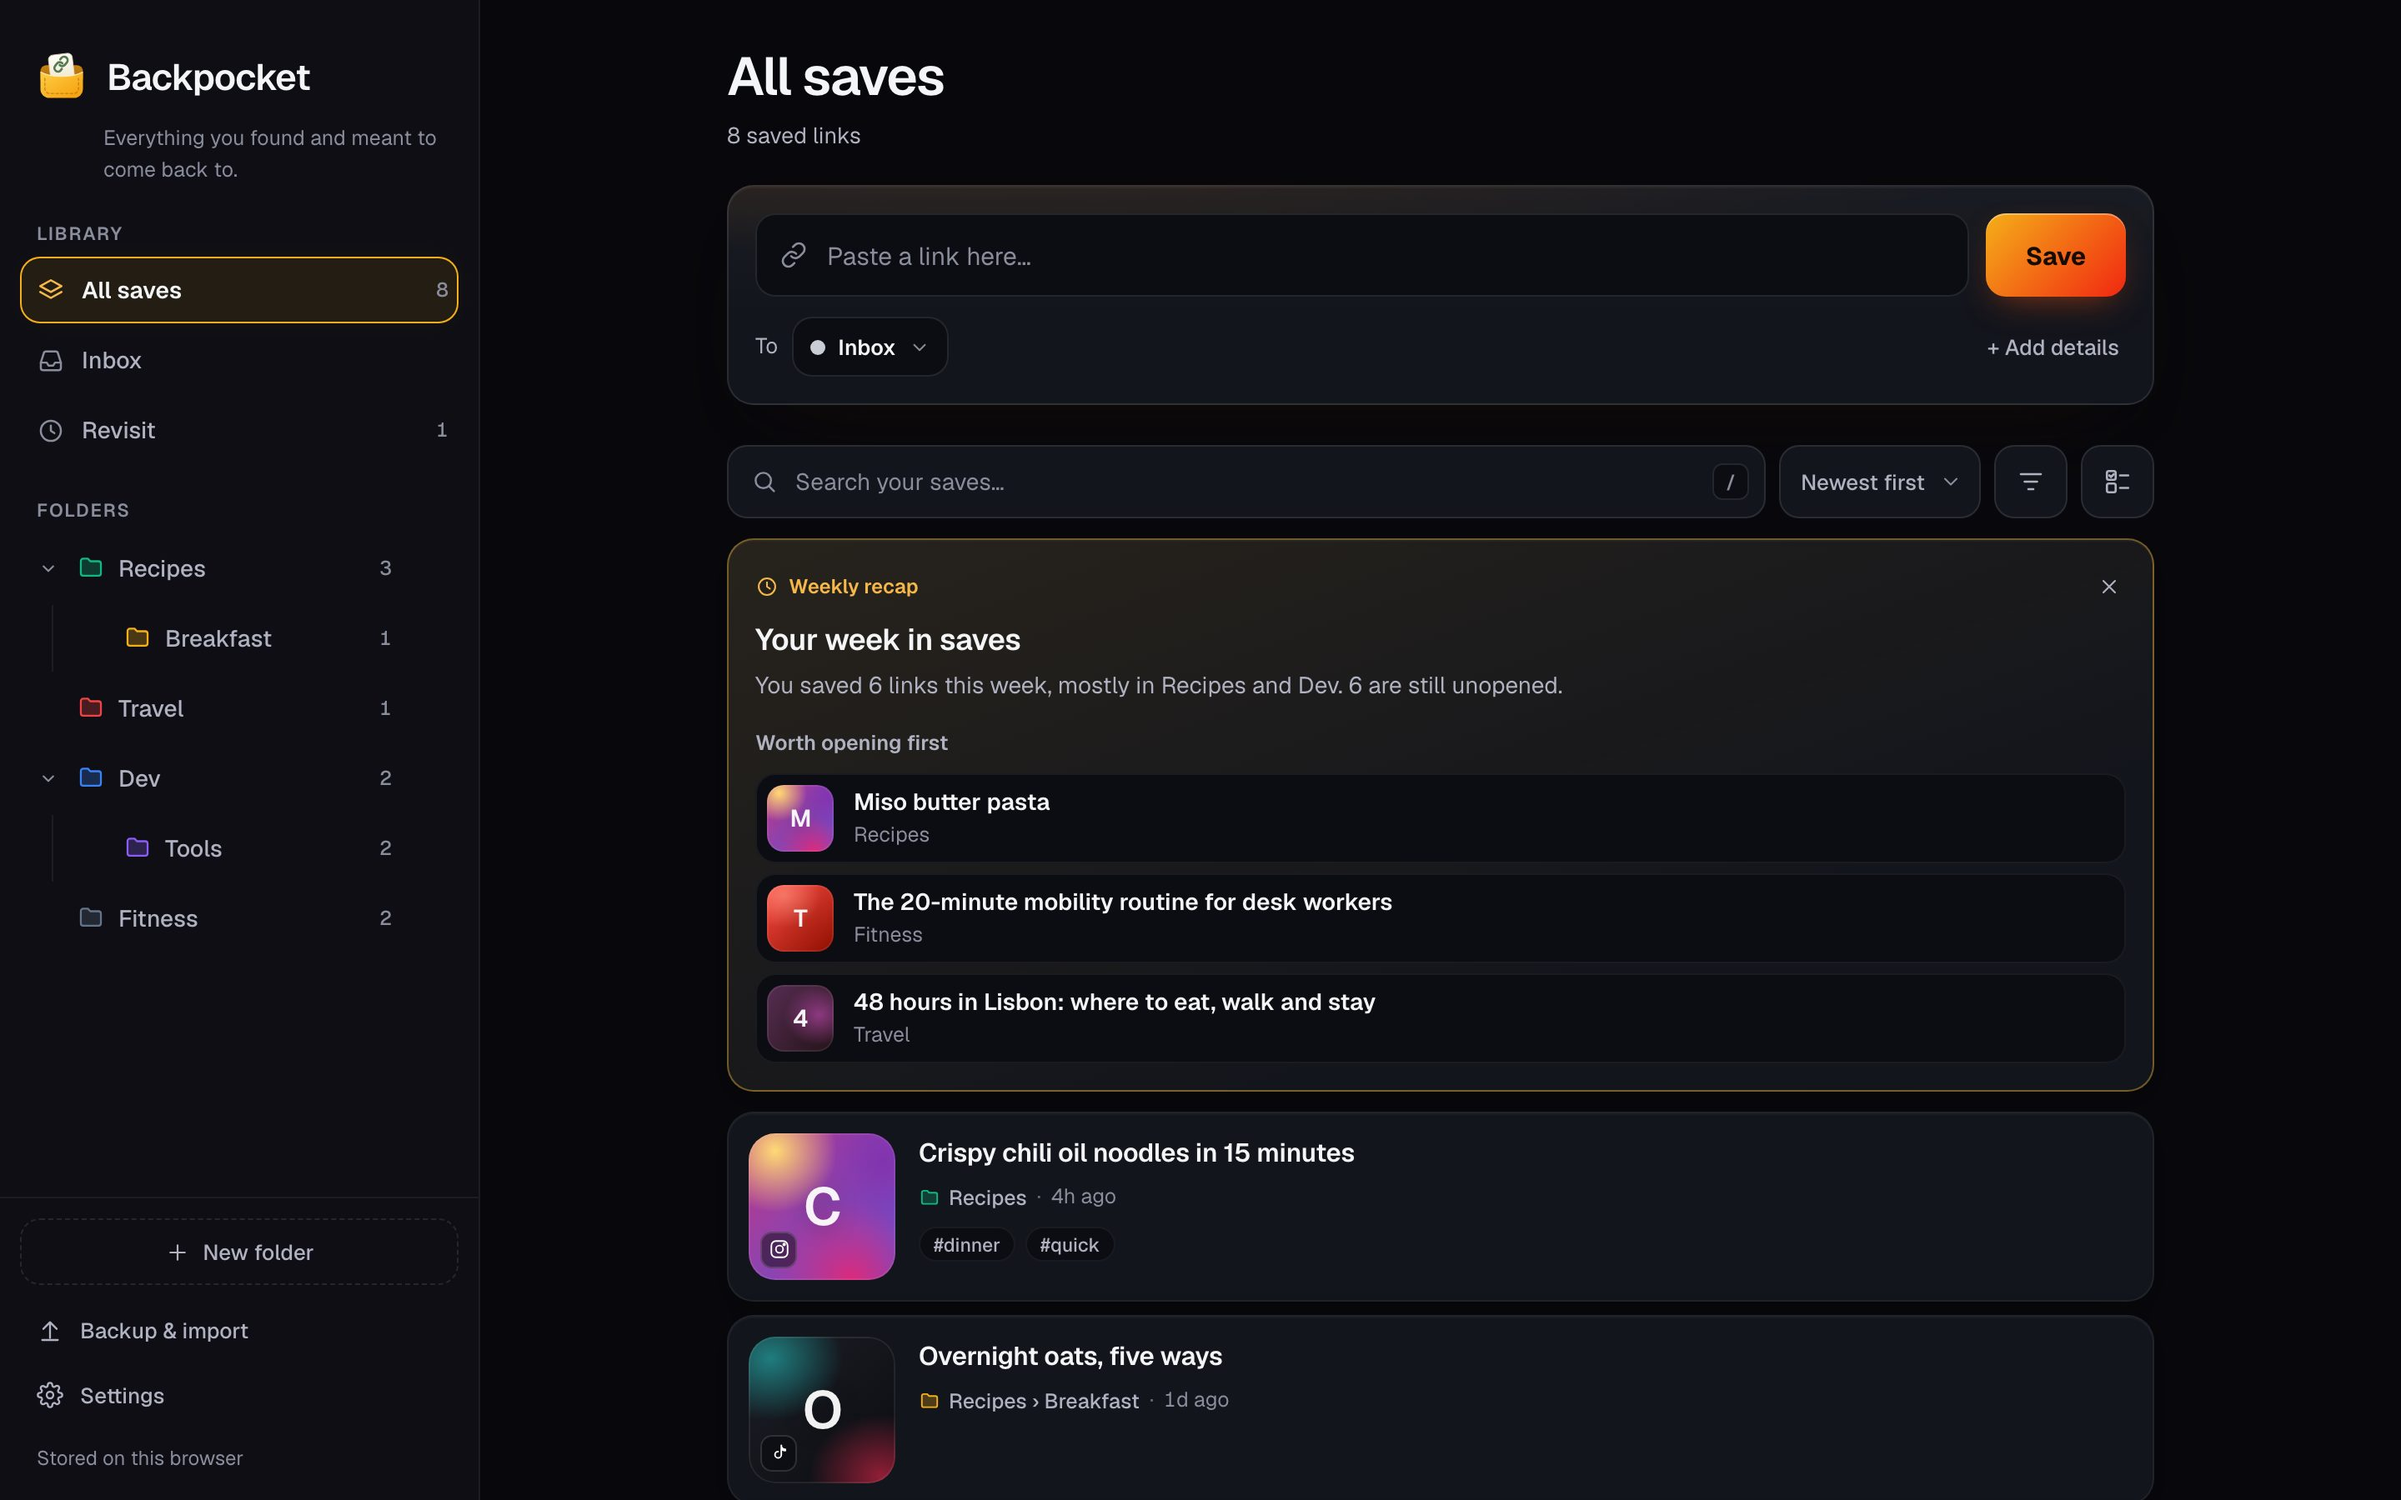
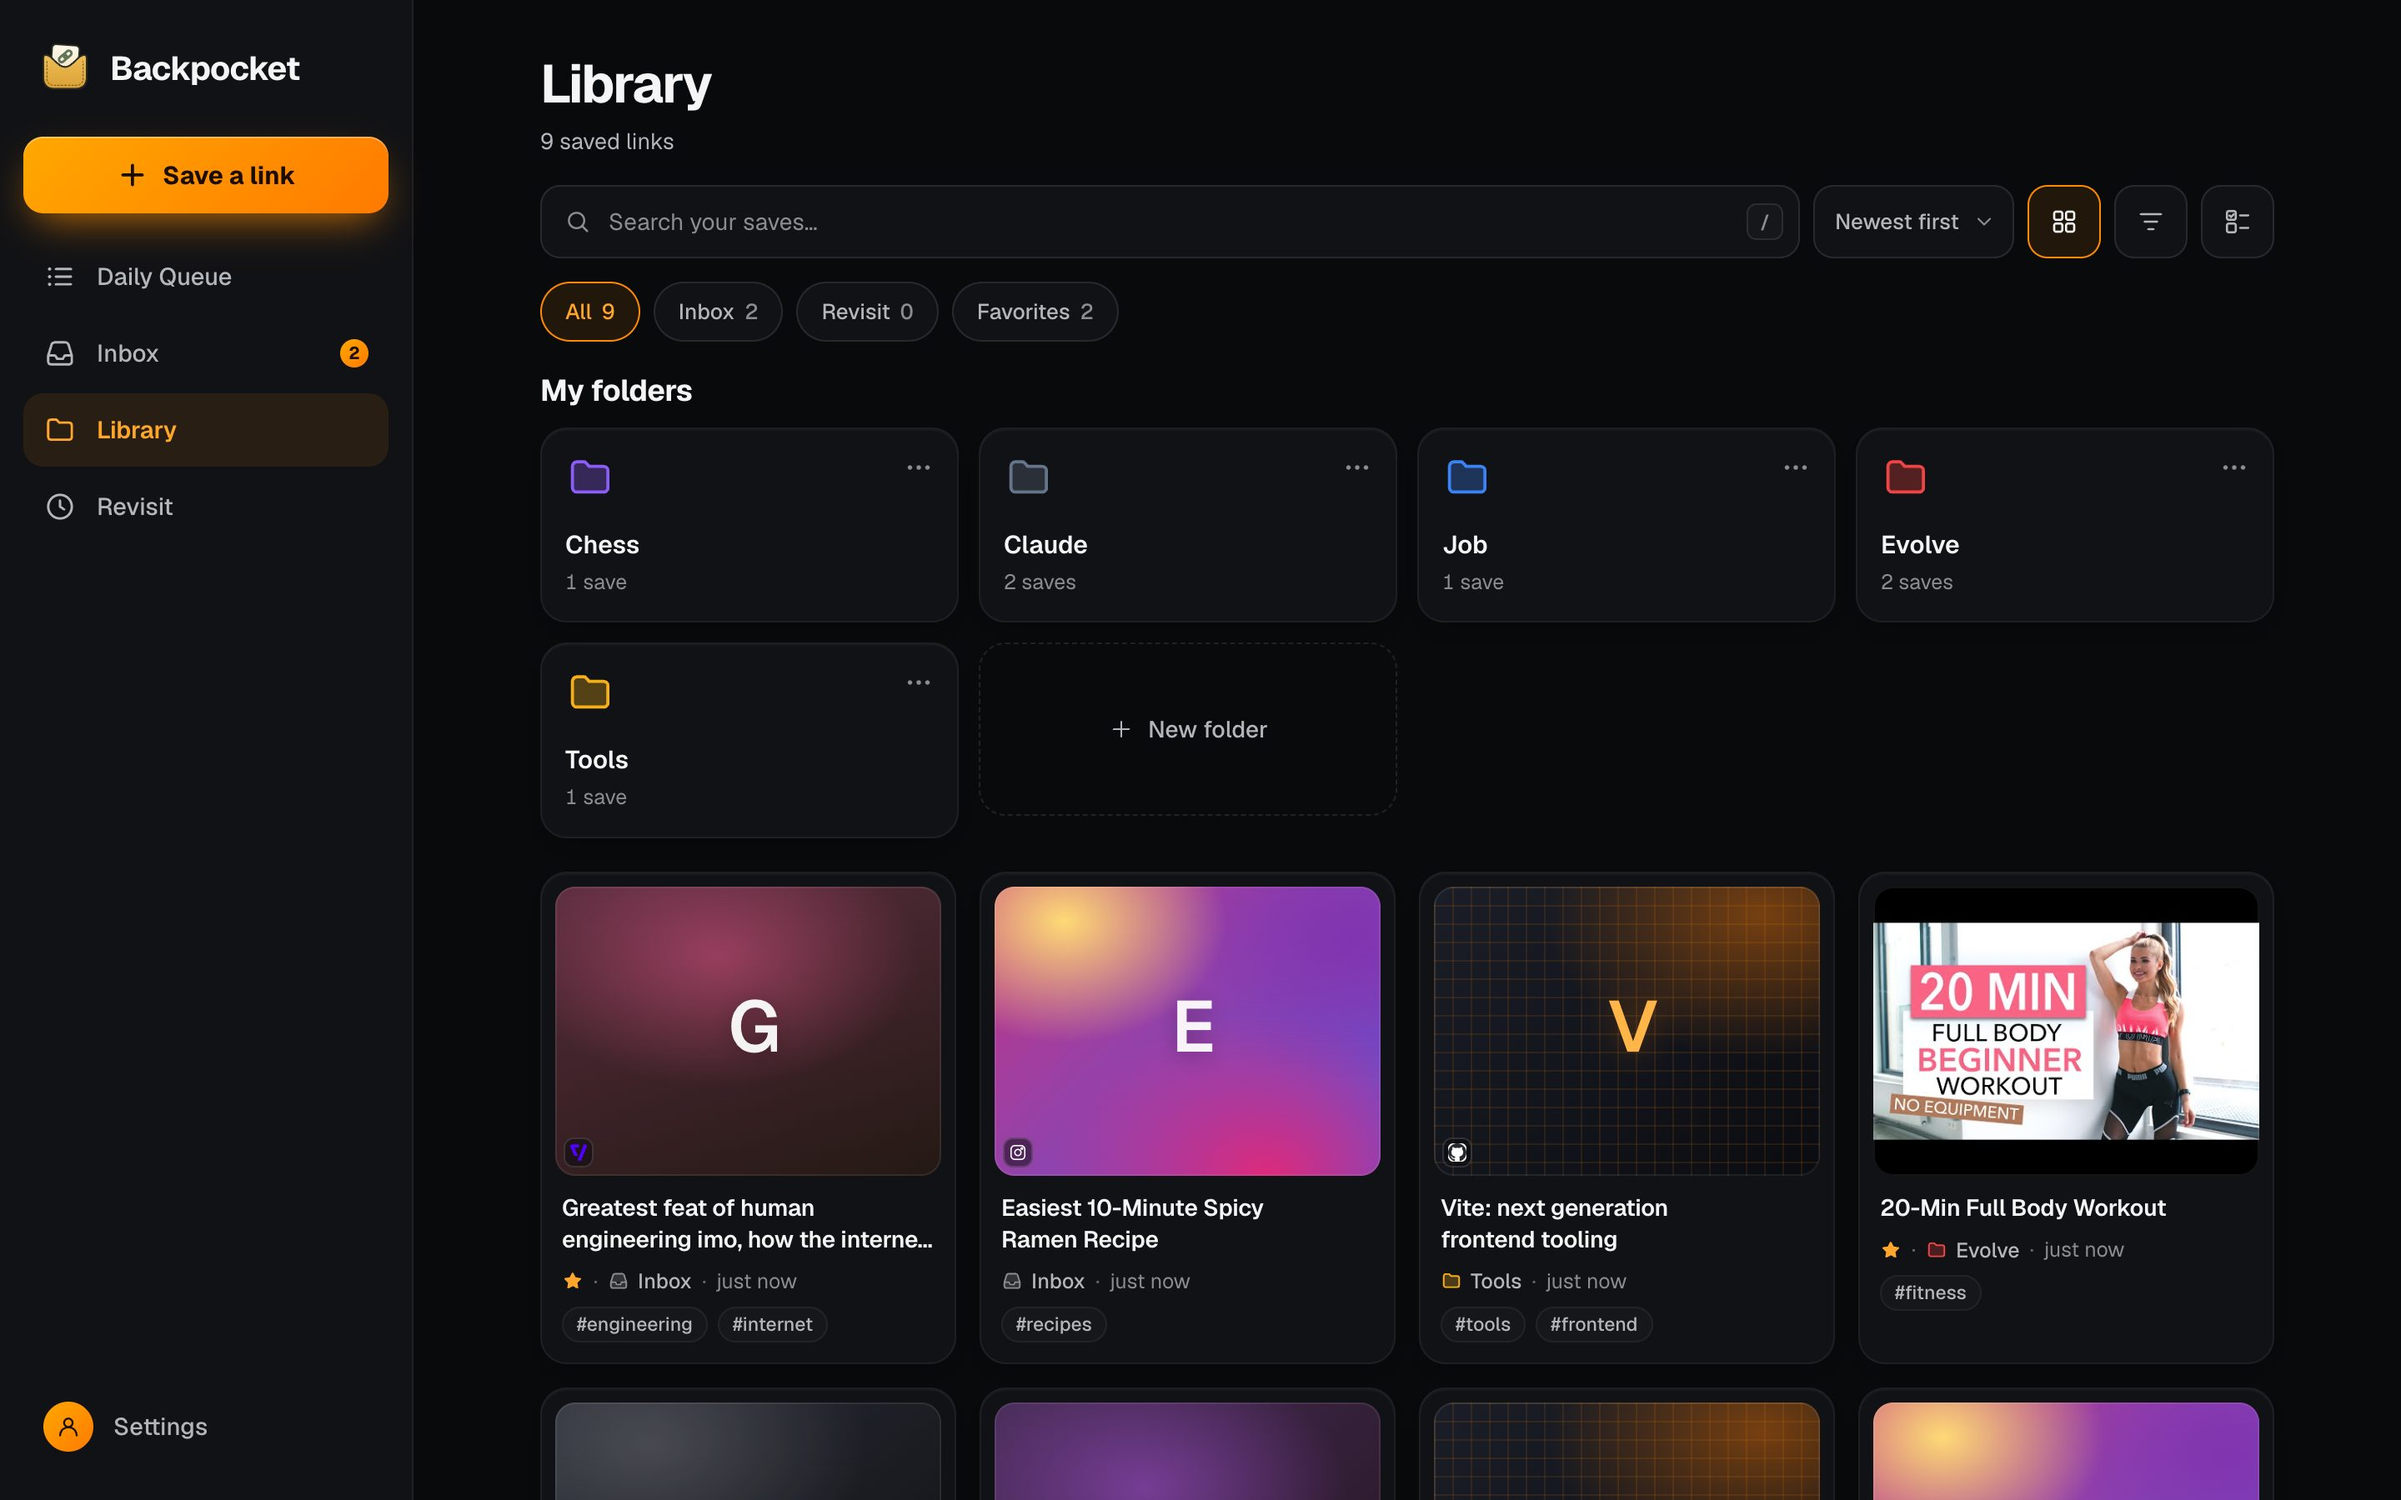
README: new screenshots of the redesign (desktop Library, phone Daily Queue)

diff --git a/README.md b/README.md
@@ -5,9 +5,9 @@
 Free, private by default, and it installs like an app in a few seconds: **<https://mohammeddev07.github.io/Backpocket/>**
 
 <p align="center">
-  <img src="docs/screenshots/desktop.jpg" alt="Backpocket on a computer: folders on the left, a save box, search, a weekly recap and saved links with colourful previews" width="760">
+  <img src="docs/screenshots/desktop.jpg" alt="Backpocket on a computer: a sidebar with Save a link, Daily Queue, Inbox, Library and Revisit; the Library with view chips, folder cards and a grid of saved links with previews and tags" width="760">
   &nbsp;
-  <img src="docs/screenshots/mobile.jpg" alt="Backpocket on a phone" width="200">
+  <img src="docs/screenshots/mobile.jpg" alt="Backpocket on a phone: the Daily Queue with a catch streak, today's focus video with Start watching and Done, and the bottom tab bar" width="200">
 </p>
 
 ## Why people use it
